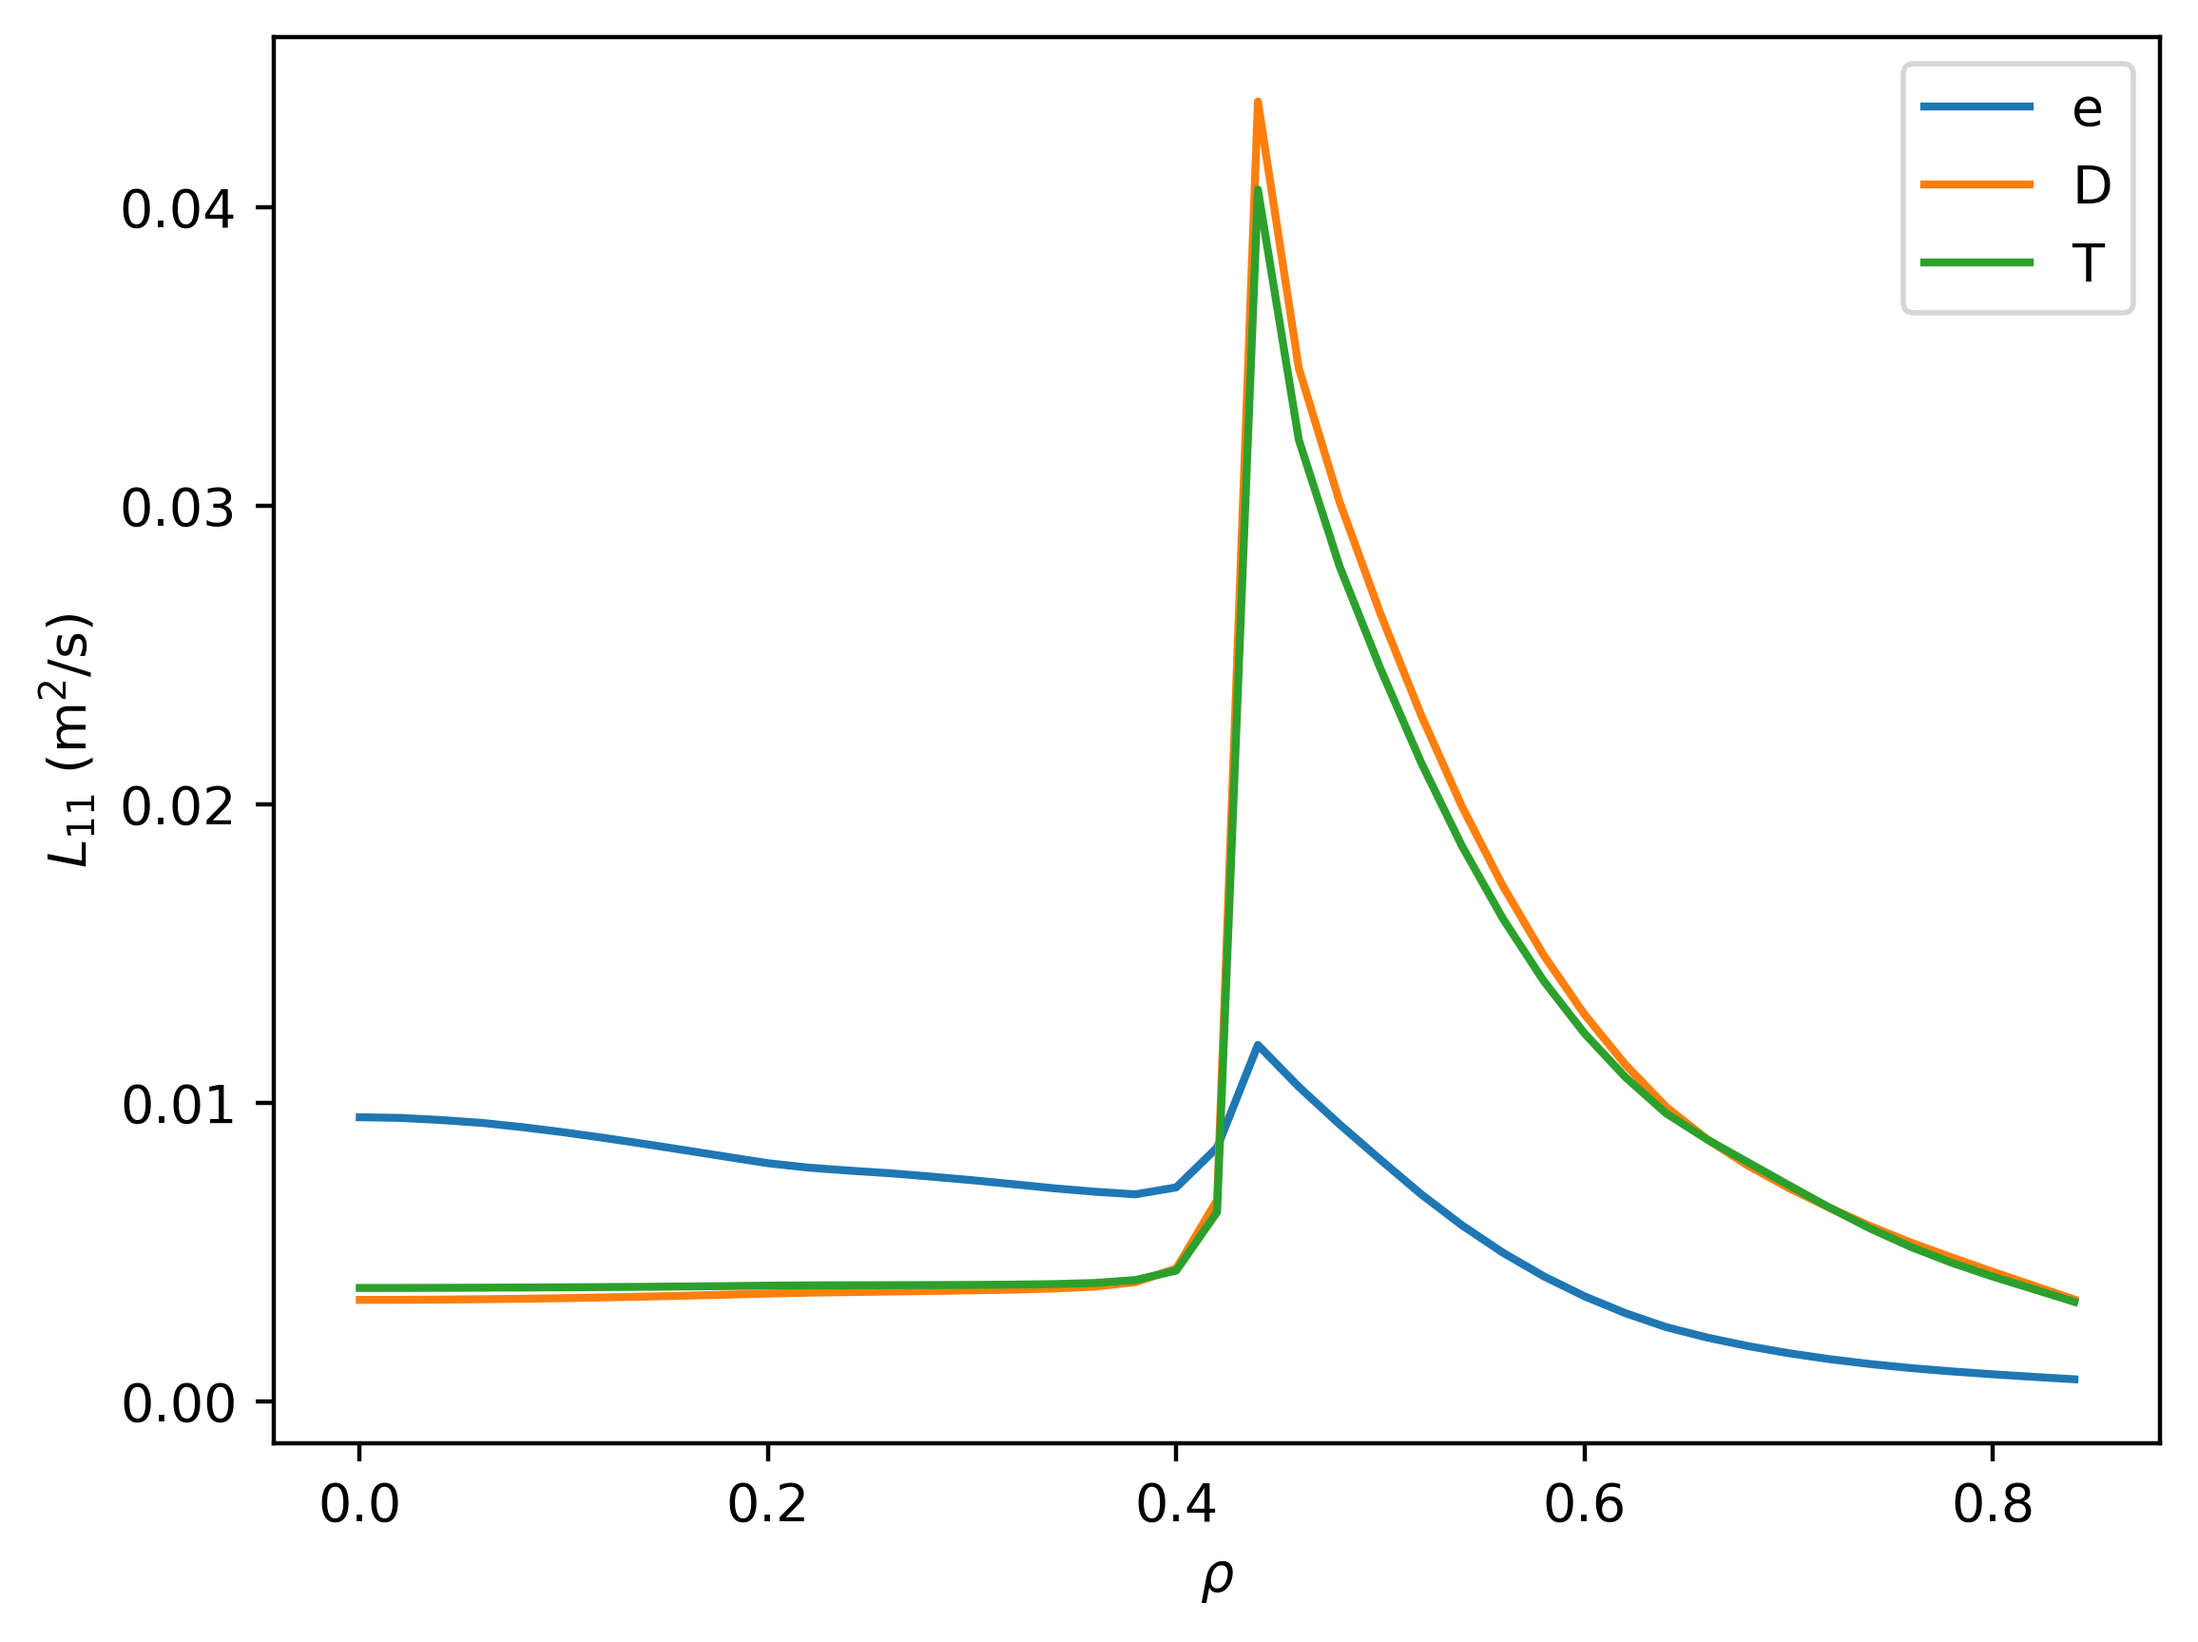
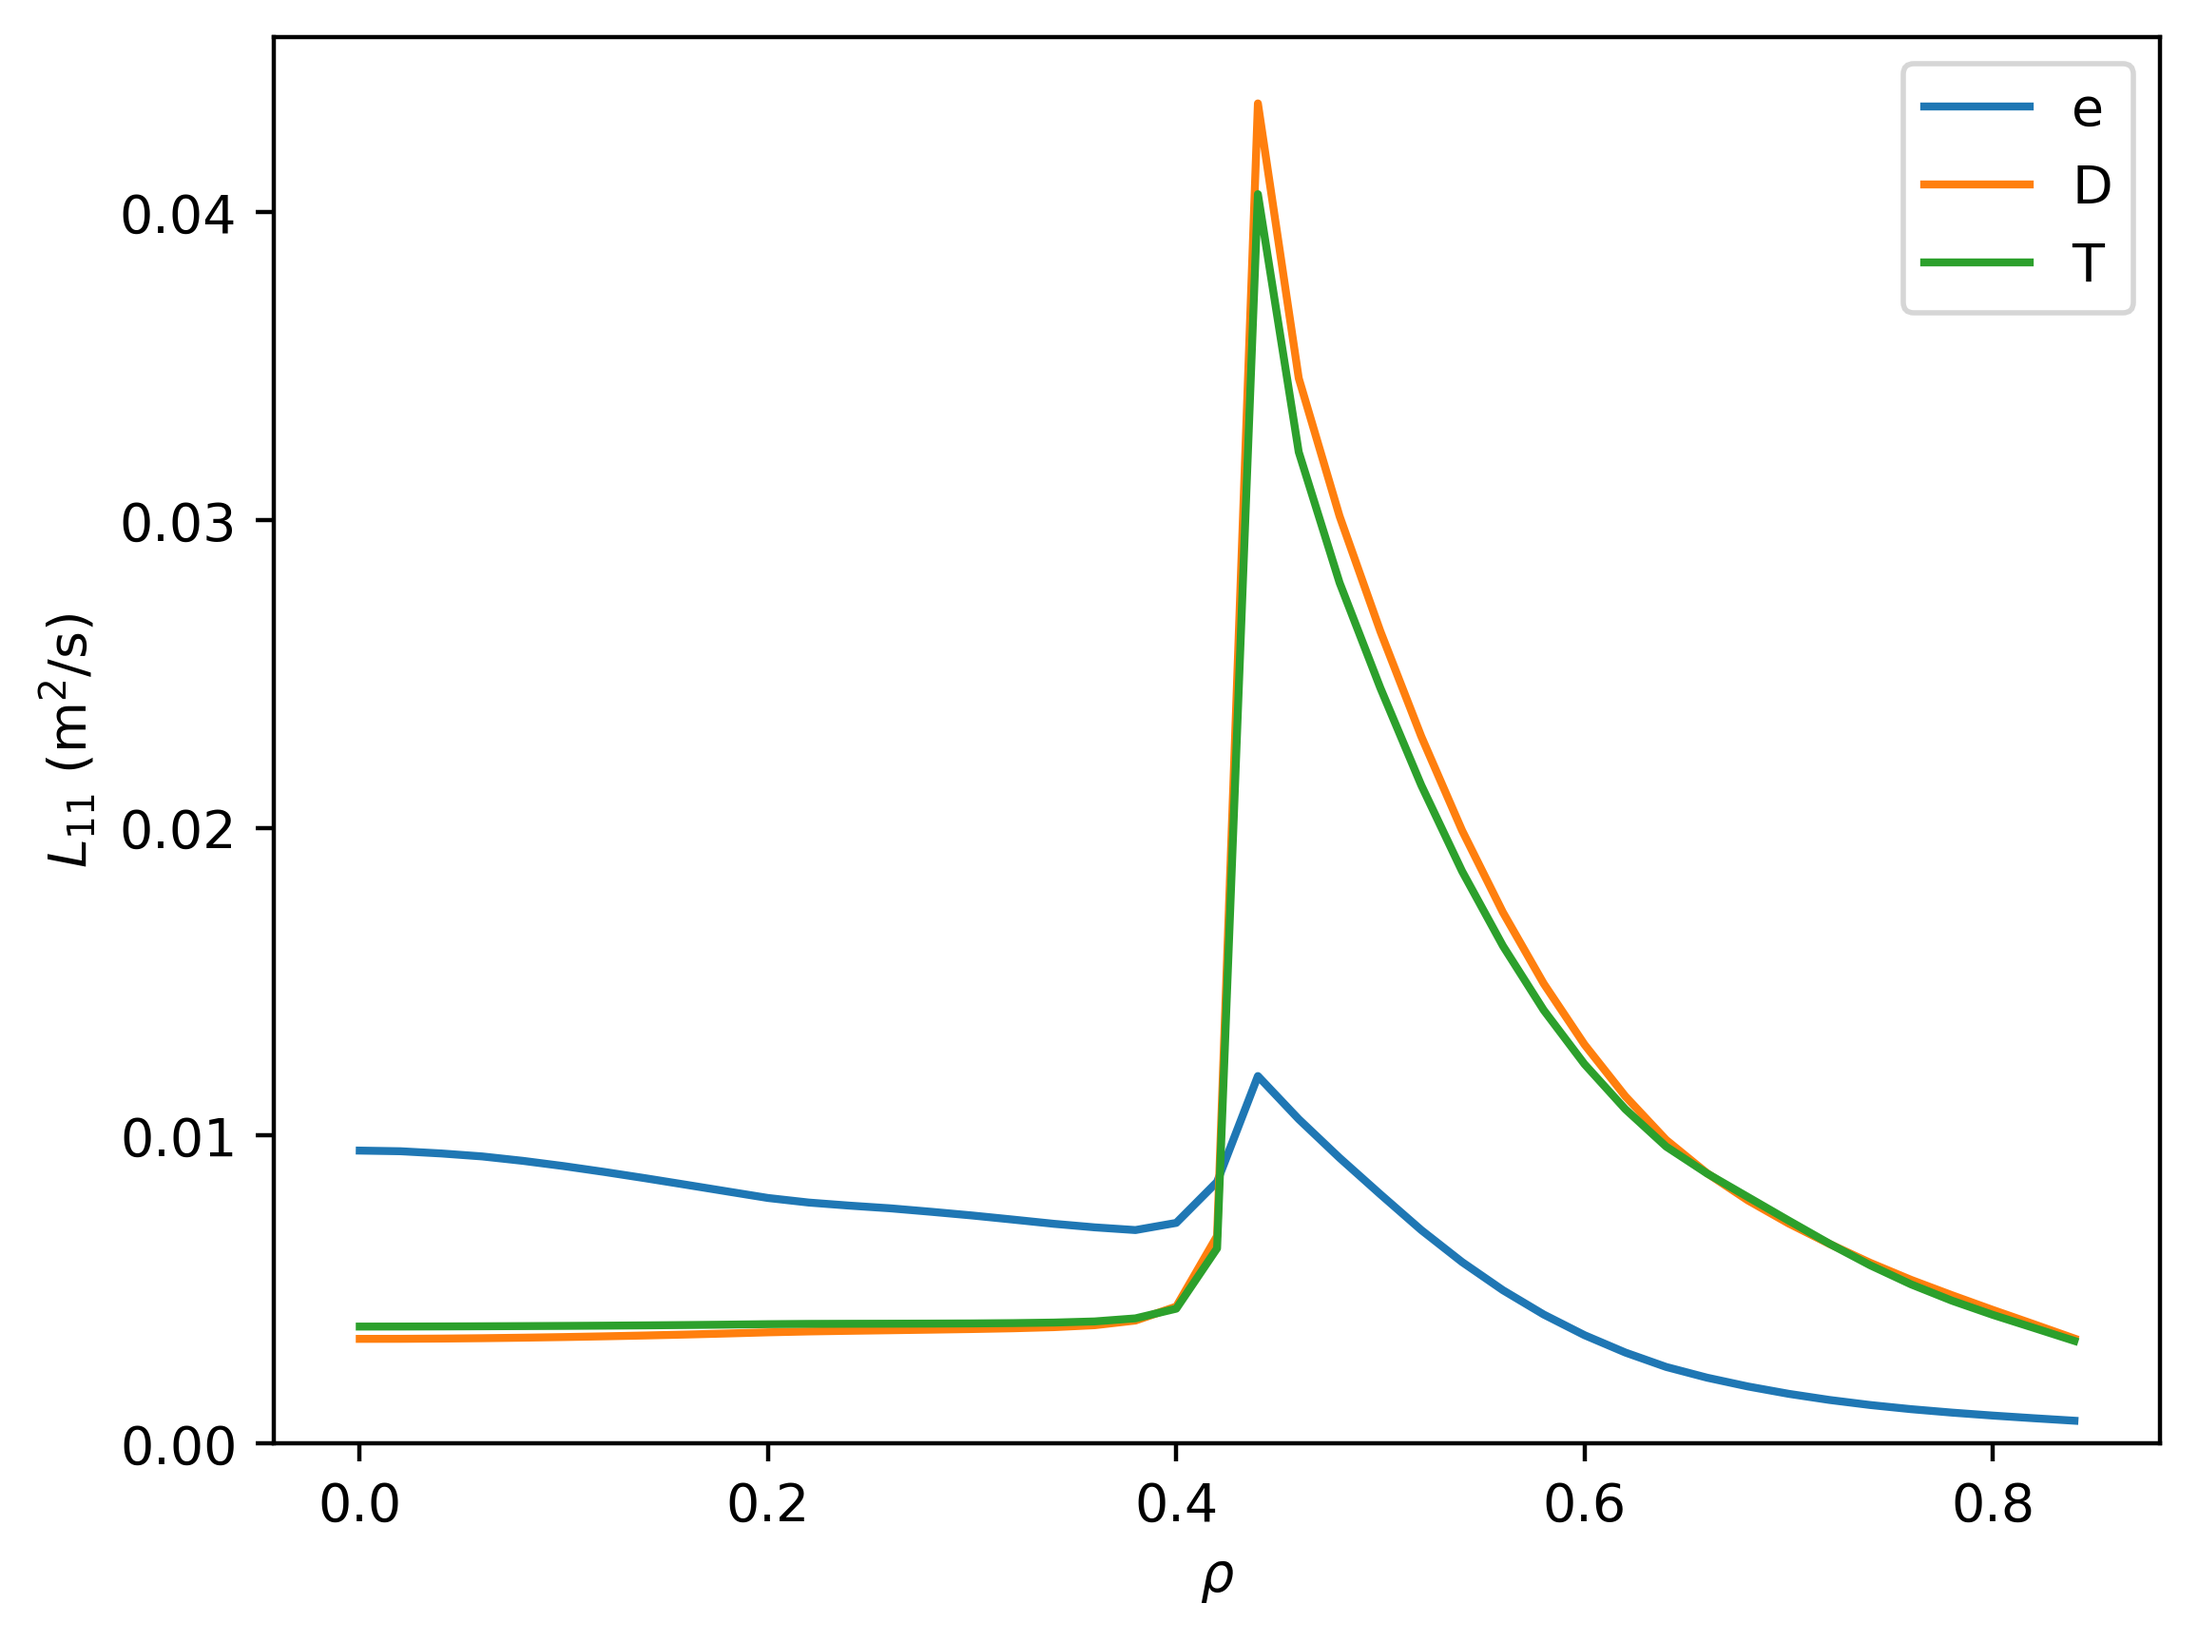
Minor tweaks

diff --git a/eRootProject/NTSSstuff/plotProfs.py b/eRootProject/NTSSstuff/plotProfs.py
@@ -40,9 +40,11 @@ def fixInd(ind):
 def loadVec(ind):
     return filteredData[:, fixInd(ind)]
 
-def makePlot(xdata, ydata, ylabel, figName, leg=None, fileExt=fileExt, yticks=None):
+def makePlot(xdata, ydata, ylabel, figName, leg=None, fileExt=fileExt, yticks=None, ymin=None):
     plt.figure()
     plt.plot(xdata, ydata)
+    if ymin is not None:
+        plt.ylim(ymin=ymin)
     if yticks is not None:
         plt.yticks(np.arange(np.floor(np.min(ydata)), np.ceil(np.max(ydata))+yticks, yticks))
     plt.xlabel(xlab)
@@ -76,11 +78,11 @@ else:
     xData = vecs['r']
     xlab = r'$r$ (m)'
 
-makePlot(*multiPlot(xData, [vecs['ne'], vecs['nD'], vecs['nT'], vecs['nHe']]), r'Density ($10^{20}~\mathrm{m^{-3}}$)', 'n', leg=['e', 'D', 'T', 'He'])
-makePlot(*multiPlot(xData, [vecs['Te'], vecs['TD'], vecs['TT'], vecs['TT']]), r'Temperature (keV)', 'T', leg=['e', 'D', 'T', 'He'])
+makePlot(*multiPlot(xData, [vecs['ne'], vecs['nD'], vecs['nT'], vecs['nHe']]), r'Density ($10^{20}~\mathrm{m^{-3}}$)', 'n', leg=['e', 'D', 'T', 'He'], ymin=0)
+makePlot(*multiPlot(xData, [vecs['Te'], vecs['TD'], vecs['TT'], vecs['TT']]), r'Temperature (keV)', 'T', leg=['e', 'D', 'T', 'He'], ymin=0)
 makePlot(xData, vecs['Er'], r'Radial Electric Field (kV/m)', 'Er')
-makePlot(xData, vecs['p'], r'Pressure (Pa)', 'p')
-makePlot(*multiPlot(xData, [vecs['L11e'], vecs['L11D'], vecs['L11T']]), r'$L_{11}$ ($\mathrm{m^2/s}$)', 'L11s', leg=['e', 'D', 'T'])
+makePlot(xData, vecs['p'], r'Pressure (Pa)', 'p', ymin=0)
+makePlot(*multiPlot(xData, [vecs['L11e'], vecs['L11D'], vecs['L11T']]), r'$L_{11}$ ($\mathrm{m^2/s}$)', 'L11s', leg=['e', 'D', 'T'], ymin=0)
 makePlot(xData, vecs['L11e']/(0.5*(vecs['L11D']+vecs['L11T'])), r'$ 2 L_{11}^{e} / \left(L_{11}^{D}+L_{11}^{T}\right) $', 'L11rat', yticks=0.5)
 makePlot(xData, vecs['Ibs'] / 1000, r'Bootstrap Current (kA)', 'Ibs')
 makePlot(xData, vecs['vaciota'], r'Vacuum Rotational Transform', 'vaciota')
